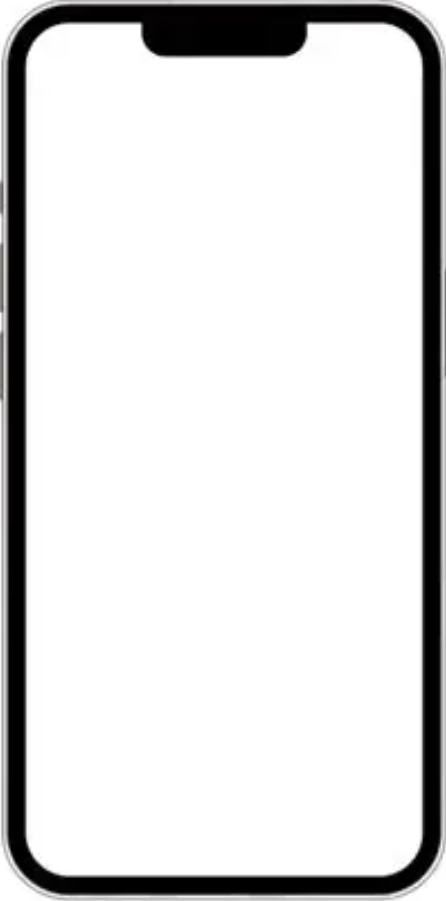
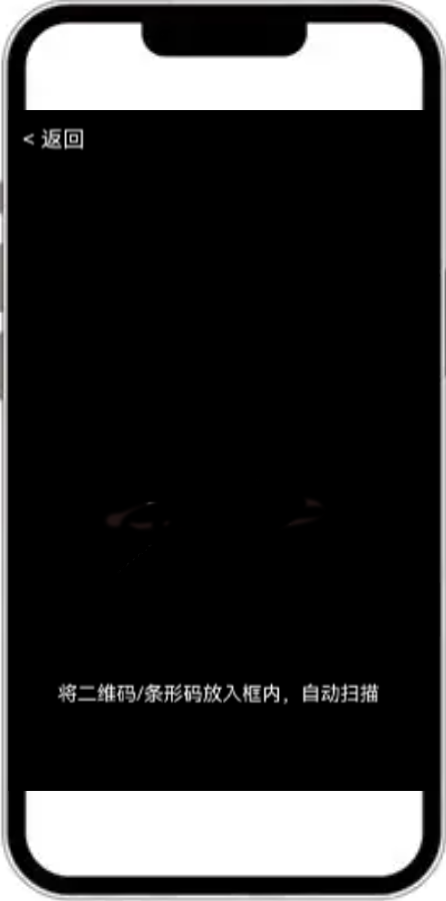
完整版本

diff --git a/means？/src/views/means/team/index.vue b/means？/src/views/means/team/index.vue
@@ -48,38 +48,38 @@ const teamMembers = [
   {
     name: "ZEROandLIFE",
     title: "前端开发",
-    description: "充满活力的领导者，热爱挑战。负责公司战略和产品开发。",
+    description: "负责web页面结构、样式与交互实现。",
     avatar: "https://avatars.githubusercontent.com/u/147062184?v=4"
   },
   {
-    name: "李四",
-    title: "技术总监",
-    description: "技术专家，有10年开发经验。负责架构设计和后端开发。",
-    avatar: "https://randomuser.me/api/portraits/men/2.jpg"
+    name: "qwettjj",
+    title: "后端开发",
+    description: "负责接口设计与数据库操作，保证数据安全与性能。",
+    avatar: "https://avatars.githubusercontent.com/u/144441049?v=4"
   },
   {
-    name: "王五",
-    title: "产品经理",
-    description: "用户体验专家，擅长将复杂需求转化为简单产品。",
-    avatar: "https://randomuser.me/api/portraits/women/1.jpg"
+    name: "apophisi",
+    title: "后端开发",
+    description: "负责业务逻辑实现。",
+    avatar: "https://avatars.githubusercontent.com/u/166116681?v=4"
   },
   {
-    name: "赵六",
+    name: "Craig-Akutagawa",
+    title: "移动端开发",
+    description: "负责鸿蒙端功能开发与性能优化。",
+    avatar: "https://avatars.githubusercontent.com/u/200924220?v=4"
+  },
+  {
+    name: "Shelia-YX",
     title: "设计师",
-    description: "视觉艺术家，创造令人愉悦的界面设计。",
-    avatar: "https://randomuser.me/api/portraits/women/2.jpg"
+    description: "负责界面原型与视觉稿输出。",
+    avatar: "https://avatars.githubusercontent.com/u/140523267?v=4"
   },
   {
-    name: "钱七",
-    title: "市场总监",
-    description: "营销专家，擅长品牌建设和用户增长。",
-    avatar: "https://randomuser.me/api/portraits/men/3.jpg"
-  },
-  {
-    name: "孙八",
-    title: "数据分析师",
-    description: "数据驱动决策，通过分析优化产品体验。",
-    avatar: "https://randomuser.me/api/portraits/women/3.jpg"
+    name: "DRAGONDIVINIT",
+    title: "产品经理",
+    description: "负责需求收集与原型文档，跟进开发进度并验收功能。",
+    avatar: "https://avatars.githubusercontent.com/u/156163962?s=400&v=4"
   }
 ];
 </script>
